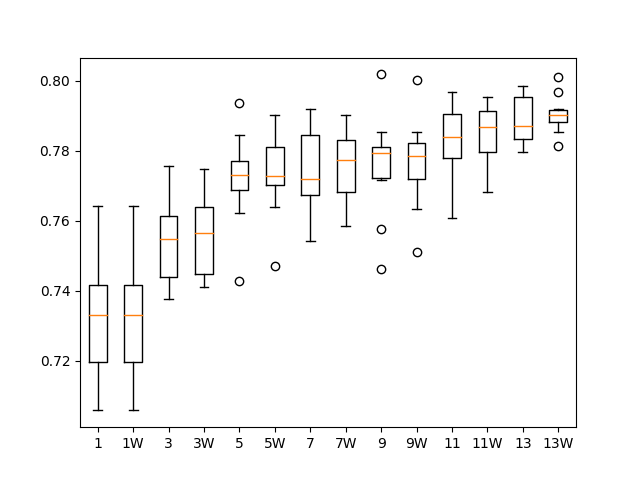
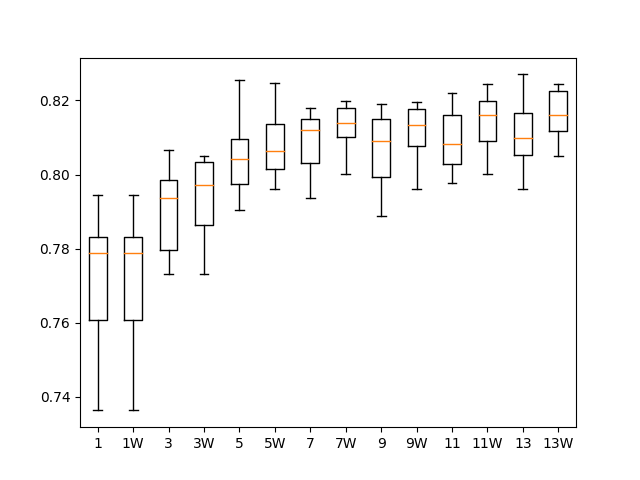
fixing

diff --git a/src/check_point3.py b/src/check_point3.py
@@ -99,9 +99,9 @@ class Supervisioned:
         }
 
         #self.kNN()
-        #self.ad()
+        self.ad()
         #self.nb()
-        self.mlp()
+        #self.mlp()
 
 
 
@@ -266,14 +266,14 @@ class Supervisioned:
         #nbParameters.append((f'NB5', CategoricalNB()))
 
         results = {}
-
+        mediaGeral = []
         for base in self.bases:
             print('----------------')
             print(base, 'cross_val_score treinamento')
             print('---------------')
             dataset = self.bases[base]
-            dataset.hist()
-            pyplot.show()
+            #dataset.hist()
+            #pyplot.show()
             feature_names = ['Speed', 'Operatorname', 'CellID', 
 				'RSRP', 'RSRQ', 'SNR', 'RSSI', 'State', 
 				'ServingCell_Distance', 'CQI']
@@ -328,6 +328,25 @@ class Supervisioned:
             mean = np.mean(acuracias)
             std = np.std(acuracias)
             print(f'Acurácia Média: {mean} ({std})')
+            
+            table2_mean = []
+            for i in range(1,4):
+                for name, model in nbParameters:
+                    size = i * 10
+                    randomState = i * 15
+                    X_train, X_test, Y_train, Y_test = train_test_split(X, y, test_size=size, random_state=randomState)
+                    cv_results = cross_val_score(model, X_train, Y_train, cv=skf, scoring='accuracy')
+                    print('%s: %f (%f)' % (name, cv_results.mean(), cv_results.std()))
+                    mean = cv_results.mean()
+                    table2_mean.append(mean)
+
+            mean = np.mean(table2_mean)
+            std = np.std(table2_mean)
+            mediaGeral.append(mean)
+            print(f'3x10-Fold Cross Validation: {mean} ({std})')
+        
+        mediaGeral_result = np.mean(mediaGeral)
+        print(f'MediaGeral: {mediaGeral_result}')
 
 
     def ad(self):
@@ -343,6 +362,7 @@ class Supervisioned:
         #adParameters.append((f'AD-Poda2', DecisionTreeClassifier(ccp_alpha=0.2)))
 
         results = {}
+
         for base in self.bases:
             print('----------------')
             print(base, 'cross_val_score treinamento')
@@ -419,6 +439,24 @@ class Supervisioned:
             mean = np.mean(acuracias)
             std = np.std(acuracias)
             print(f'Acurácia Média: {mean} ({std})')
+            table2_mean = []
+            for i in range(1,4):
+                for name, model in adParameters:
+                    size = i * 10
+                    randomState = i * 15
+                    X_train, X_test, Y_train, Y_test = train_test_split(X, y, test_size=size, random_state=randomState)
+                    cv_results = cross_val_score(model, X_train, Y_train, cv=skf, scoring='accuracy')
+                    print('%s: %f (%f)' % (name, cv_results.mean(), cv_results.std()))
+                    mean = cv_results.mean()
+                    table2_mean.append(mean)
+
+            mean = np.mean(table2_mean)
+            std = np.std(table2_mean)
+            
+            print(f'3x10-Fold Cross Validation: {mean} ({std})')
+        
+        #
+        #print(f'MediaGeral: {mediaGeral_result}')
 
 
 
@@ -474,6 +512,7 @@ class Supervisioned:
             fig.savefig(f'figs/knn/{base}-kNN.png')
             bestValue = sortArr[0]
             #print(f'{base}: {bestValue} -- {sortArr}')
+            acuracias = []
             for name, model in knnParameters:
                 mean = results[base][name]['mean']
                 if mean == bestValue:
@@ -483,10 +522,12 @@ class Supervisioned:
                     
                     # Evaluate predictions
                     print('Acurácia de predição:', accuracy_score(Y_test, predictions))
-                    print('Matriz de confusão:')
-                    print(confusion_matrix(Y_test, predictions))
-                    print('Report de classificação:')
-                    print(classification_report(Y_test, predictions))#, zero_division=1))
+                    #print('Matriz de confusão:')
+                    #print(confusion_matrix(Y_test, predictions))
+                    #print('Report de classificação:')
+                    #print(classification_report(Y_test, predictions))#, zero_division=1))
+                    a = accuracy_score(Y_test, predictions)
+                    acuracias.append(a)
                     # Plot non-normalized confusion matrix
                     titles_options = [("Matriz de confusão sem normalização", None), ("Matriz de confusão normalizada", 'true')]
                     class_names = ['high', 'low', 'medium']
@@ -497,7 +538,26 @@ class Supervisioned:
                                                         normalize=normalize)
                         disp.ax_.set_title(f'{title} - {base}')
                         disp.figure_.savefig(f'figs/knn/cm-{base}-{normalize}.png')
-                        #fig.savefig(f'figs/knn/confusion-matrix-{normalize}.png')            
+                        #fig.savefig(f'figs/knn/confusion-matrix-{normalize}.png') 
+                        #    
+            mean = np.mean(acuracias)
+            std = np.std(acuracias)
+            print(f'Acurácia Média: {mean} ({std})')
+            table2_mean = []
+            for i in range(1,4):
+                for name, model in knnParameters:
+                    size = i * 10
+                    randomState = i * 15
+                    X_train, X_test, Y_train, Y_test = train_test_split(X, y, test_size=size, random_state=randomState)
+                    cv_results = cross_val_score(model, X_train, Y_train, cv=skf, scoring='accuracy')
+                    #print('%s: %f (%f)' % (name, cv_results.mean(), cv_results.std()))
+                    mean = cv_results.mean()
+                    table2_mean.append(mean)
+
+            mean = np.mean(table2_mean)
+            std = np.std(table2_mean)        
+            print(f'3x10-Fold Cross Validation: {mean} ({std})')
+
         print('Fim Experimento kNN -')
         print('----------------------------------------------------------')
 
